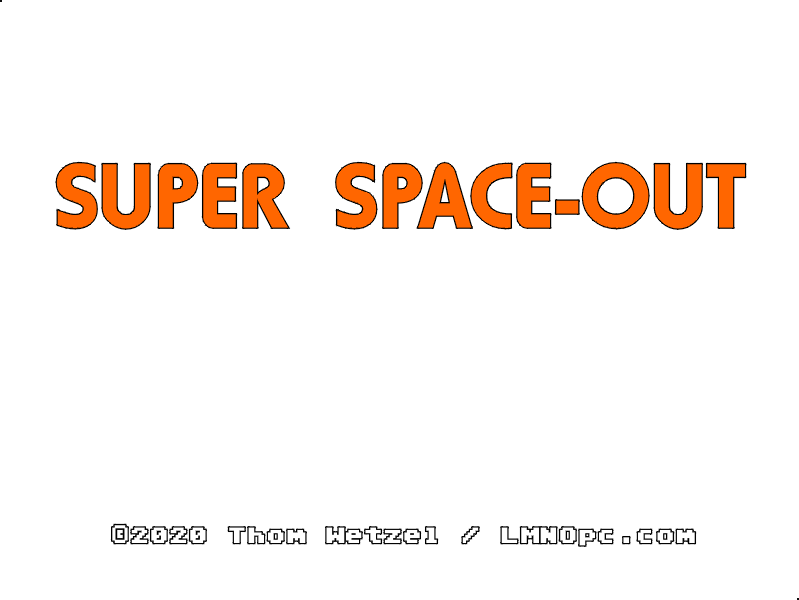
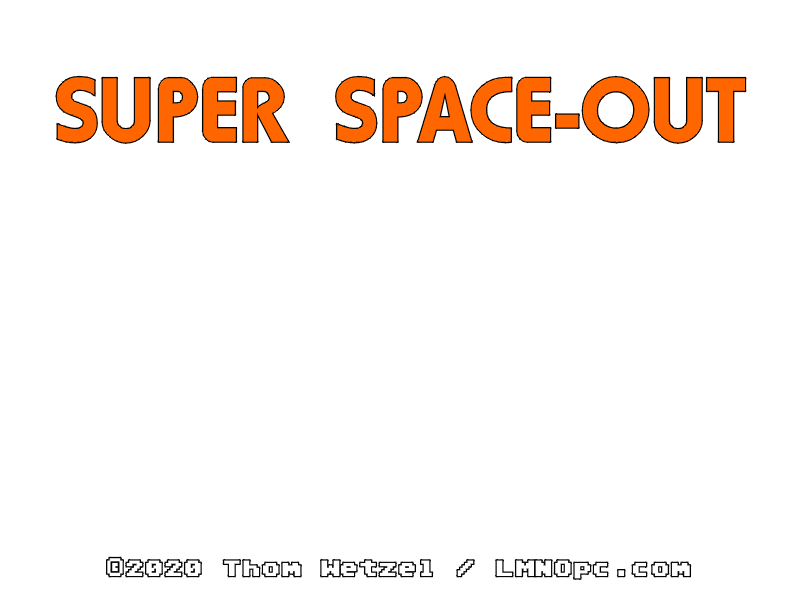
Intro text added, brick building animation

diff --git a/game.js b/game.js
@@ -6,13 +6,16 @@ var Breakout = new Phaser.Class({
     {
         Phaser.Scene.call(this, { key: 'breakout' });
 
+        this.GS_GAME_INIT = "INIT";  // This is the state the first time the game is started
         this.GS_GAME_OVER = "GAME OVER";
         this.GS_GAME_ACTIVE = "GAME ACTIVE";
+        this.GS_GAME_INTRO = "INTRO";
 
-        this.gameState = this.GS_GAME_OVER;
+        this._gameState = this.GS_GAME_INIT;
 
         this._score;
         this._remainingBalls = 0;
+
         this.level;
         this.highestRowHit;
 
@@ -24,6 +27,8 @@ var Breakout = new Phaser.Class({
         this.astronautImages = {};
 
         this.scanlines;
+
+        this.introText;
     },
 
     preload: function ()
@@ -169,33 +174,63 @@ var Breakout = new Phaser.Class({
 
         this.input.on('pointerup', function (pointer) {
 
-            // If the game's over, restart the game
-            if (this.gameState == this.GS_GAME_OVER) {
-                this.startGame();
-            } 
-            // If the game is active and the ball's on the paddle, release the ball
-            else if (this.gameState == this.GS_GAME_ACTIVE) {
+            switch (this.getGameState()) {
 
-                if (this.ball.getData('onPaddle')) {
-                    this.ball.setData('onPaddle', false);
-                    this.startLevel();
-                }
+                case this.GS_GAME_INIT:
+                    this.showIntro();
+                    break;
+                
+                case this.GS_GAME_OVER:
+                    this.startGame();
+                    break;
+
+                case this.GS_GAME_ACTIVE:
+                    if (this.ball.getData('onPaddle')) {
+                        this.ball.setData('onPaddle', false);
+                        this.startLevel();
+                    }    
+                    break;
+                
+                default:
+                    console.log('UNKNOWN GAME STATE IN POINTERUP: ' + this.getGameState());
+                    
             }
 
         }, this);
         
         this.scoreText = this.add.bitmapText(10, 560, '8bit', '', 32).setOrigin(0).setLeftAlign();
         this.setScore(0);
+        this.scoreText.visible = false;
 
         this.ballsText = this.add.bitmapText(800, 560, '8bit', '', 32).setOrigin(1, 0).setRightAlign();
         this.setRemainingBalls(0);
+        this.ballsText.visible = false;
 
-        this.centeredText = this.add.bitmapText(400, 300, '8bit', 'default text', 32).setOrigin(0.5).setCenterAlign();
+        this.centeredText = this.add.bitmapText(400, 300, '8bit', '', 32).setOrigin(0.5).setCenterAlign();
         this.centeredText.setText(['Click to begin']);
 
+        this.introText = this.add.bitmapText(400, 300, '8bit', '', 24).setOrigin(0.5).setLeftAlign();
+        this.introText.setText([
+            'After the events in 1977 at'
+            , 'Devils Tower Wyoming, the'
+            , 'government sends an astronaut'
+            , 'on a lonely mission to find'
+            , 'the aliens, and discover the'
+            , 'fate of the travellers that'
+            , 'left Earth on the visitors\''
+            , 'mothership.'
+            , ''
+            , 'This is the story of what'
+            , 'happened to that brave'
+            , 'astronaut.'
+            , ''
+            , 'CLICK TO BEGIN...'
+        ]);
+        this.introText.visible = false;
+        
         this.scanlines = this.add.image(400, 300, 'scanlines');
 
-        this.title = this.add.image(400, 300, 'title');
+        this.title = this.add.image(400, 270, 'title');
     },
 
     hitBrick: function (brick)
@@ -289,9 +324,40 @@ var Breakout = new Phaser.Class({
         }
     },
 
+    // Kicks off the intro screen
+    showIntro: function() {
+        
+        // Fade the centered text out
+        this.tweens.add({
+            targets: this.centeredText,
+            alpha: 0,
+            ease: 'Power1',
+            duration: 500
+        });
+
+        // Hide the introText and peg its alpha to zero
+        this.introText.alpha = 0;
+        this.introText.visible = true;
+
+        var tweenIntroTextFadeIn = this.tweens.add({
+            targets: this.introText,
+            alpha: 1.0,
+            ease: 'Power1',
+            duration: 1000,
+            onComplete: this.introTextFadeInComplete,
+            onCompleteParams: [this.scene]
+        });
+
+        // Set gamestate to game over so that the next click starts the game
+        this.setGameState(this.GS_GAME_OVER);
+    
+    },
+
     startGame: function()
     {
         console.log('welcome to startGame');
+
+        this.introText.visible = false;
 
         // Reset variables at the start of the game
         this.level = 1;
@@ -302,7 +368,7 @@ var Breakout = new Phaser.Class({
         this.resetBall();
         
         this.highestRowHit = 0;
-        this.gameState = this.GS_GAME_ACTIVE;
+        this.setGameState(this.GS_GAME_ACTIVE);
 
         // Hide the title screen and centered text
         this.title.visible = false;
@@ -525,6 +591,16 @@ var Breakout = new Phaser.Class({
                 brick.visible = true;
                 brick.setData('row', 4 - i); // Flip the sounds
 
+                // Fade bricks in row by row
+                brick.alpha = 0;
+                this.tweens.add({
+                    targets: brick,
+                    alpha: 1,
+                    delay: 200 * i,
+                    duration: 500,
+                    repeat: 0
+                });
+    
                 this.bricks.push(brick);
             }
         }
@@ -542,10 +618,18 @@ var Breakout = new Phaser.Class({
 
     endGame: function() {
 
-        this.gameState = this.GS_GAME_OVER;
+        this.setGameState(this.GS_GAME_OVER);
 
         this.centeredText.setText(['GAME OVER', '', 'CLICK TO START OVER']);
         this.centeredText.visible = true;
+
+        // Fade the centered text in
+        this.tweens.add({
+            targets: this.centeredText,
+            alpha: 1,
+            ease: 'Power1',
+            duration: 1000
+        });
 
         this.stopBall();
     },
@@ -591,6 +675,7 @@ var Breakout = new Phaser.Class({
     setRemainingBalls: function(balls) {
         this._remainingBalls = balls;
         this.ballsText.setText('SHOTS: ' + this._remainingBalls);
+        this.ballsText.visible = true;
     },
     decrementRemainingBalls: function() {
         this.setRemainingBalls(this._remainingBalls - 1);
@@ -601,9 +686,18 @@ var Breakout = new Phaser.Class({
     setScore: function(score) {
         this._score = score;
         this.scoreText.setText('SCORE: ' + score);
+        this.scoreText.visible = true;
     },
     increaseScore: function(amt) {
         this.setScore(this._score + amt);
+    },
+    getGameState: function() {
+        return this._gameState;
+    },
+    setGameState: function(gameState) {
+        this._gameState = gameState;
+
+        // Do stuff based on the new gameState value
     }
 
 });
